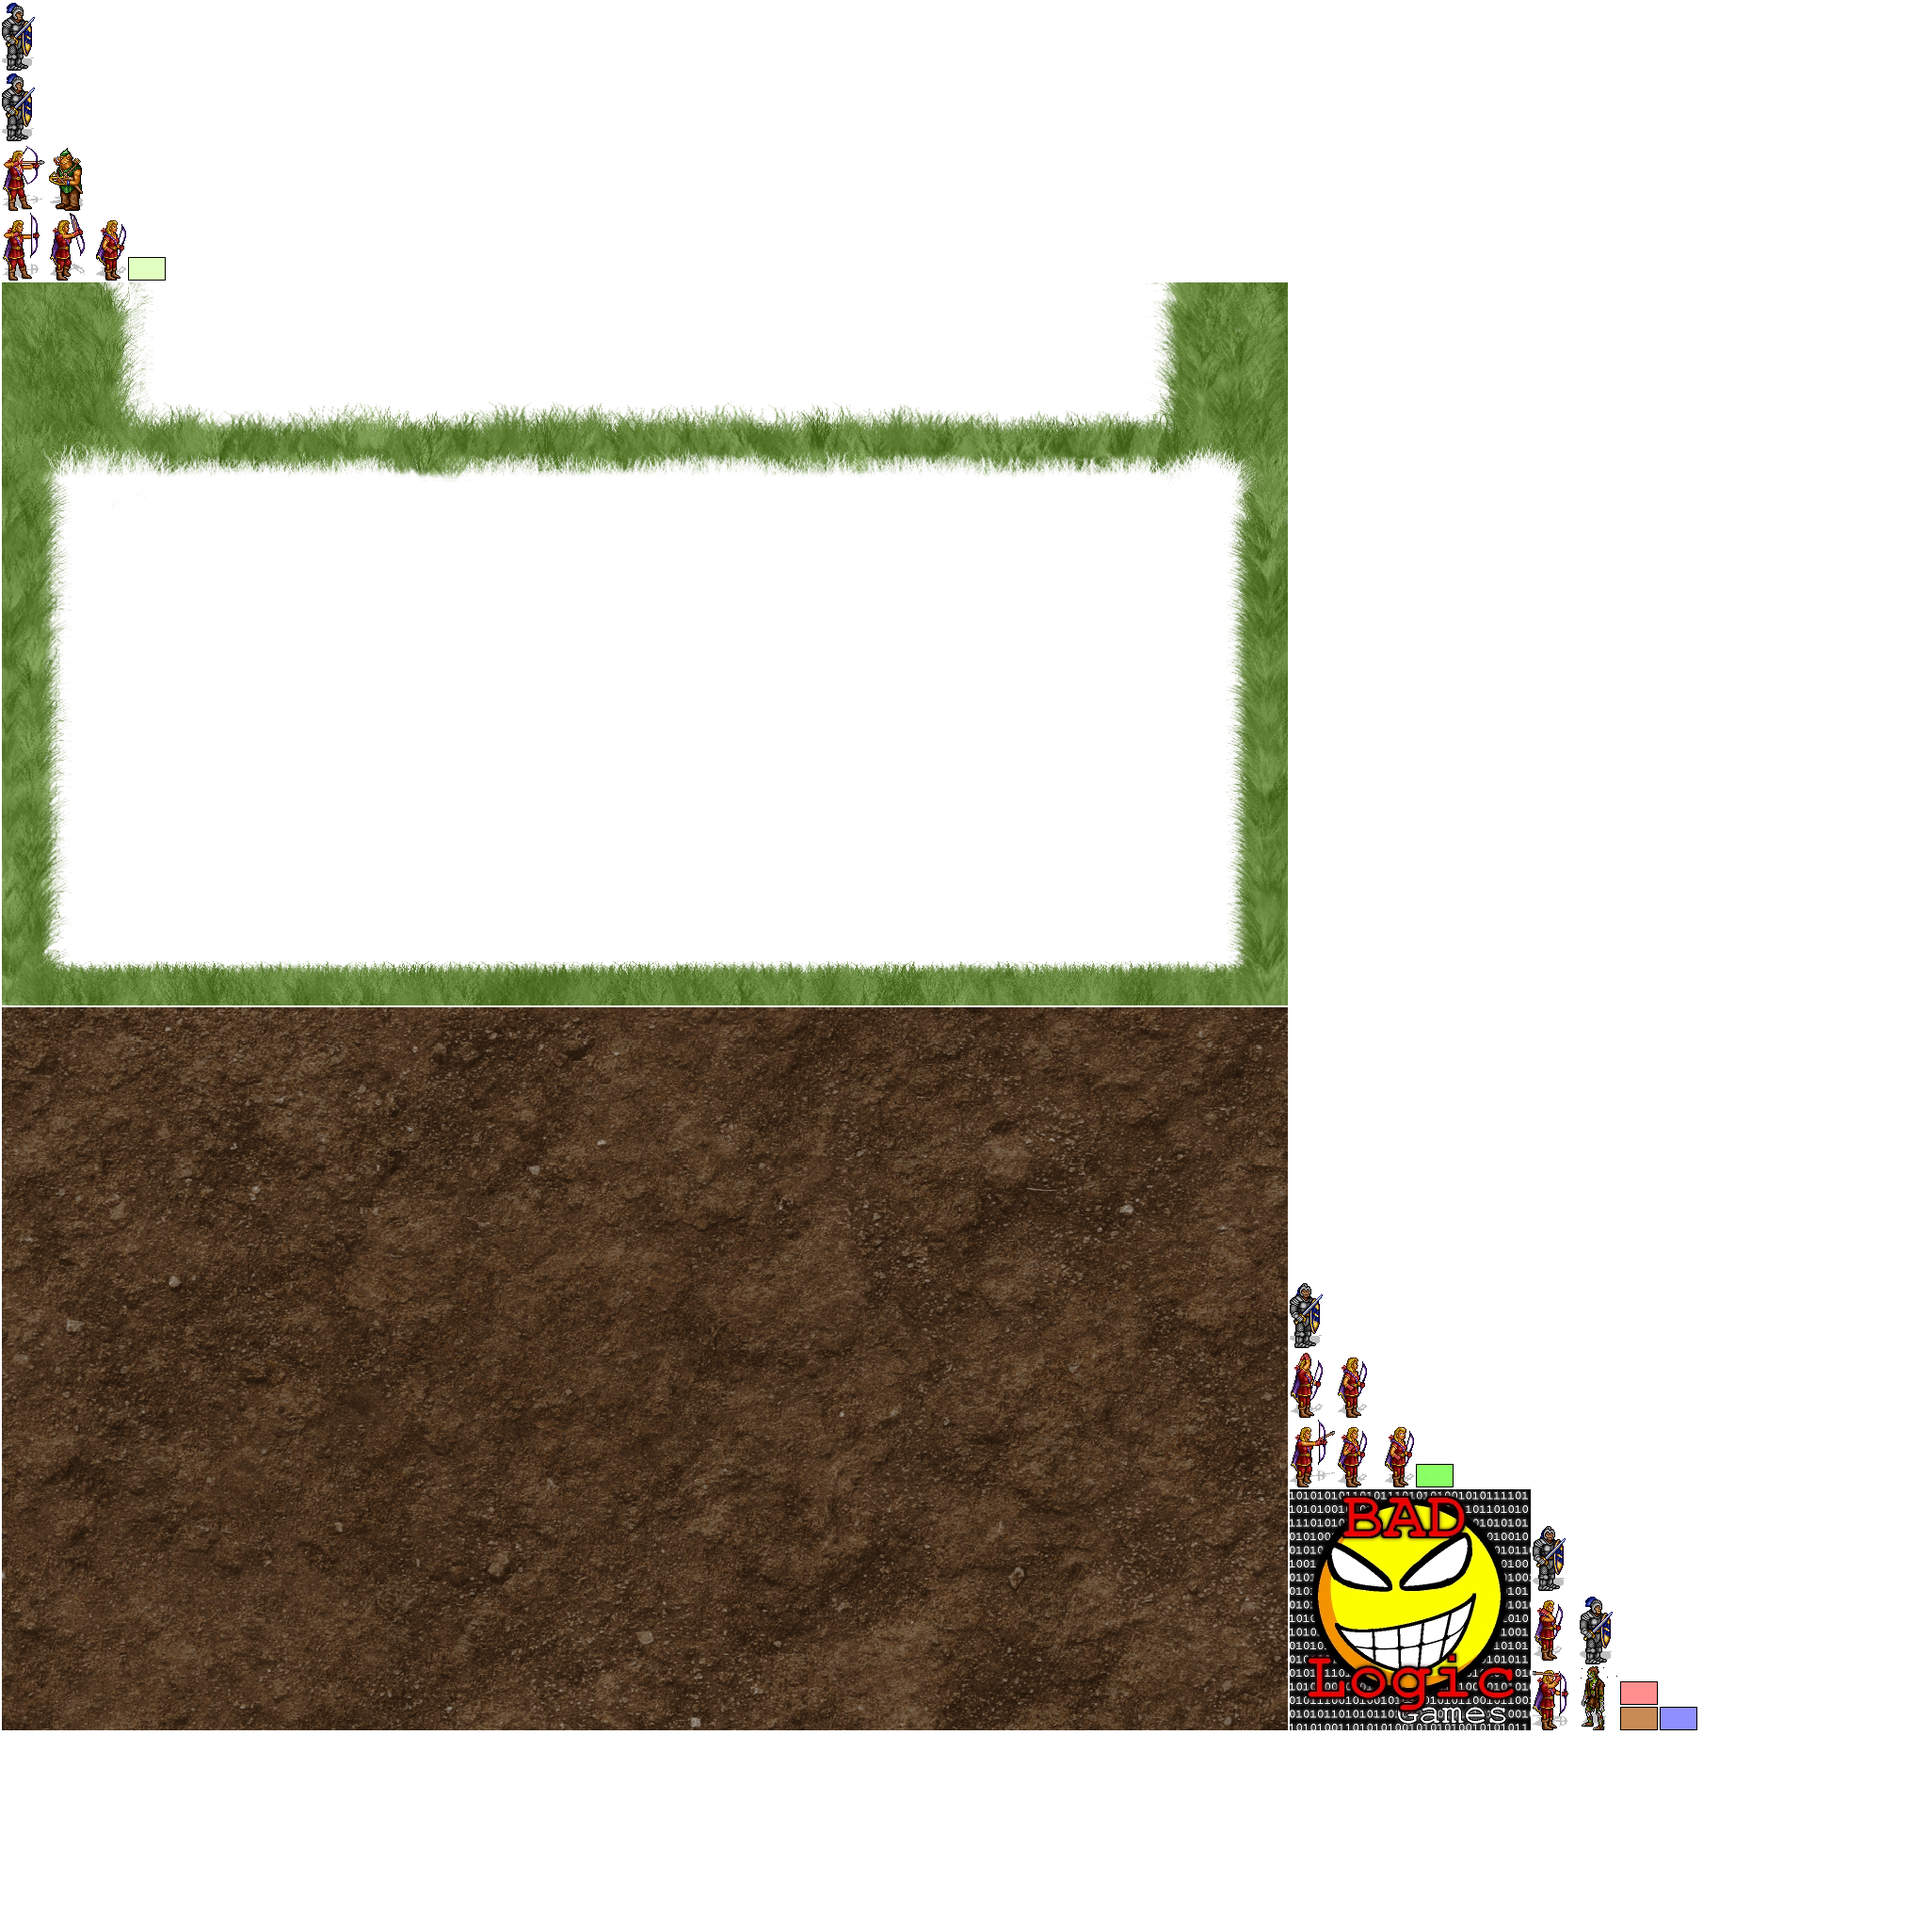
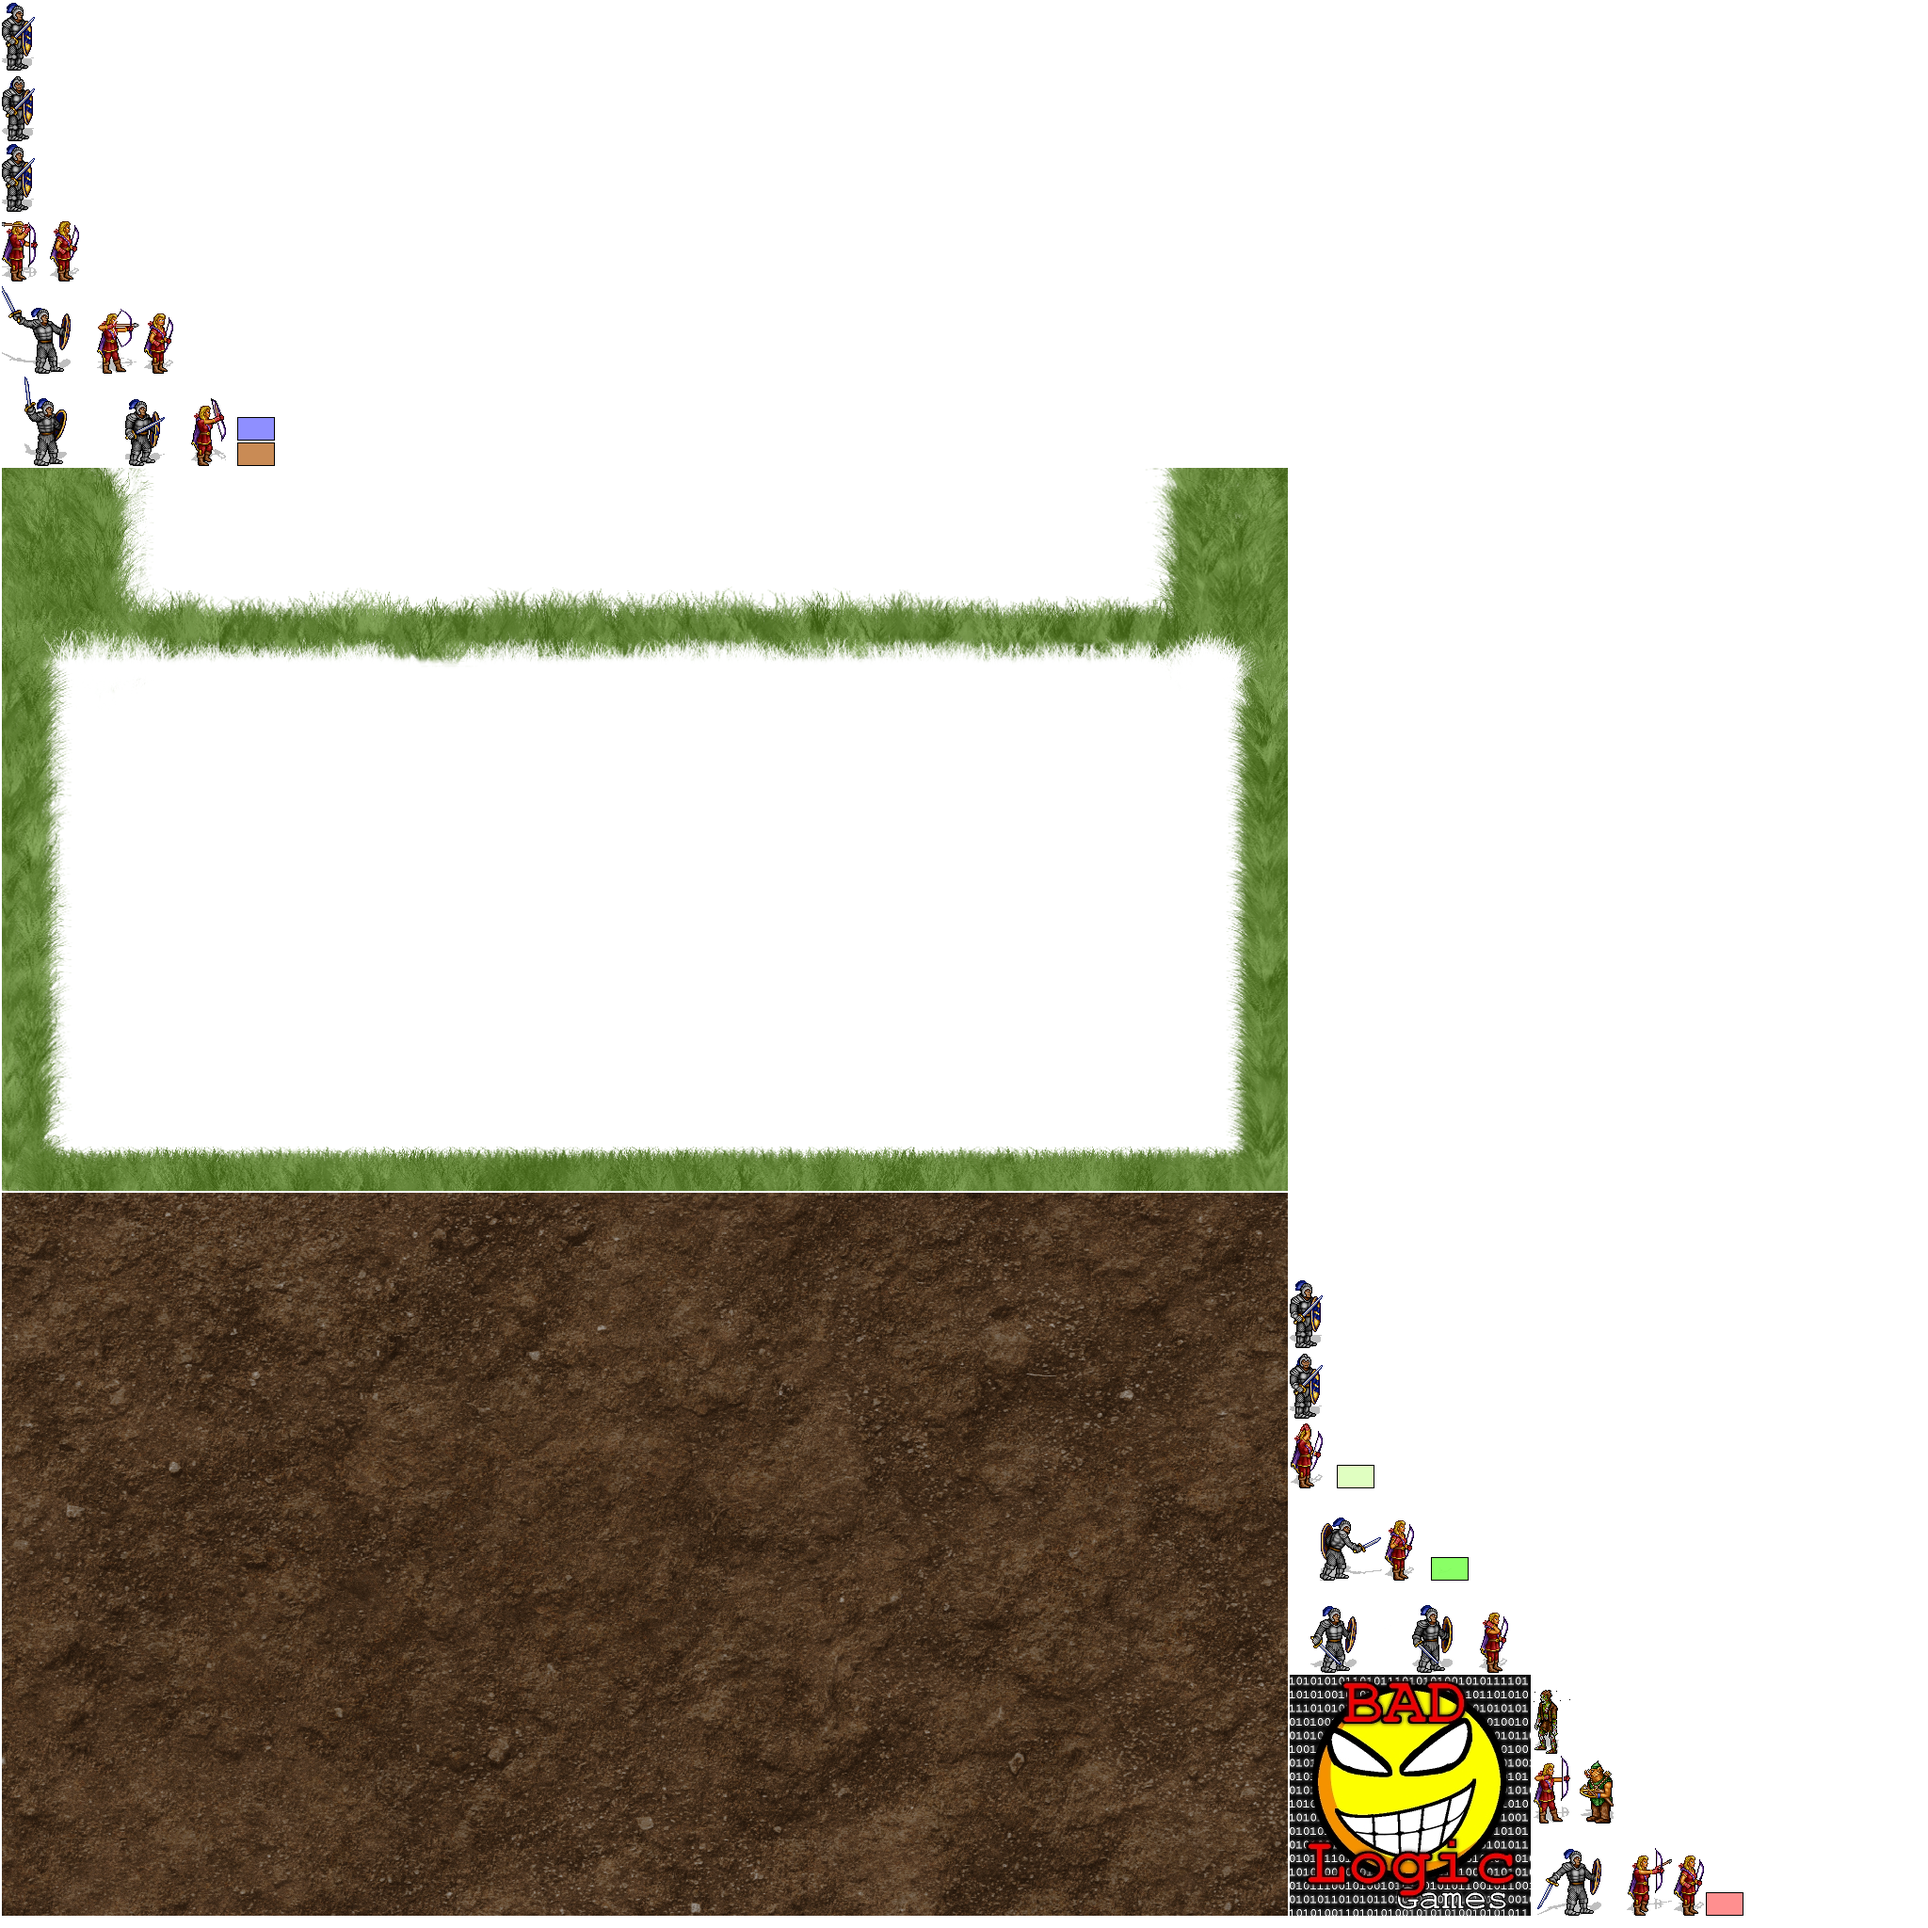
Added to commit animation class (forgot about it); added attack animation to knight; added delay to bot units move

Changed region(s): [[0.0, 0.0312, 0.9062, 1.0]]

diff --git a/core/src/com/d43/tbs/model/unit/Unit.java b/core/src/com/d43/tbs/model/unit/Unit.java
@@ -8,6 +8,7 @@ import com.badlogic.gdx.graphics.g2d.TextureRegion;
 import com.badlogic.gdx.math.Vector2;
 import com.badlogic.gdx.utils.Array;
 import com.d43.tbs.control.MapHandler;
+import com.d43.tbs.control.MapPlaying;
 import com.d43.tbs.control.UnitController;
 import com.d43.tbs.model.GameObject;
 import com.d43.tbs.model.map.Cell;
@@ -23,7 +24,7 @@ public abstract class Unit extends GameObject {
 
 	private int id, hp, rangeAttack, rangeMovement, damage;
 	private UnitController controller;
-	private Cell cell;
+	protected Cell cell;
 	private boolean isReplaceable;
 	private boolean isEnemy;
 	private boolean isAlive;
@@ -38,8 +39,13 @@ public abstract class Unit extends GameObject {
 	private boolean isForChoose;
 
 	private Vector2 location;
-	
+
 	protected Animation current, idle, attack;
+	
+	protected boolean delayed;
+	protected float delay, finalDelay;
+	
+	protected boolean markEndBotMove;
 
 	public Unit(TextureRegion textureRegion, float x, float y, float width, float height) {
 		super(textureRegion, x, y, width, height);
@@ -62,30 +68,54 @@ public abstract class Unit extends GameObject {
 
 		this.textureRegion = textureRegion;
 
-		this.isForChoose = false;		
+		this.isForChoose = false;
+		
+		this.delayed = false;
+		this.delay = 0;
+		
+		this.markEndBotMove = false;
 	}
 	
-	public abstract void initAnimations(TextureAtlas atlas);
+	public void lastEnemy() {
+		this.markEndBotMove = true;
+	}
 	
+	public void setDelay(Float delay) {
+		this.finalDelay = delay;
+		this.delay = 0;
+		this.delayed = true;
+	}
+
+	public abstract void initAnimations(TextureAtlas atlas);
+
 	public Array<Animation> getAnimations() {
 		Array<Animation> animations = new Array<Animation>();
 		animations.add(current);
 		animations.add(idle);
 		animations.add(attack);
-		
+
 		return animations;
 	}
-	
+
 	public void setAttack() {
 		this.current = this.attack;
 	}
-	
+
 	public void attack(Unit unit) {
+		if (this.attack.getDeltaPosition() != null)
+			this.getBounds().setPosition(
+					this.cell.getBounds().getX() + this.attack.getDeltaPosition().x + this.cell.getSize().width / 2
+							- this.getSize().width / 2,
+					this.cell.getBounds().getY() + this.attack.getDeltaPosition().y + this.cell.getSize().height / 2
+							- this.cell.getSize().height / 4);
 		this.current = this.attack;
 		unit.damage(this.damage);
 	}
-	
+
 	public void setIdle() {
+		this.getBounds().setPosition(
+				this.cell.getBounds().getX() + this.cell.getSize().width / 2 - this.getSize().width / 2,
+				this.cell.getBounds().getY() + this.cell.getSize().height / 2 - this.cell.getSize().height / 4);
 		this.idle.refresh();
 		this.current = idle;
 	}
@@ -237,9 +267,23 @@ public abstract class Unit extends GameObject {
 		this.current.update(delta);
 		this.changeTextureRegion(this.current.getFrame());
 		this.getObject().setSize(this.current.getSize().x, this.current.getSize().y);
-		
+
 		super.draw(batch);
 
+		if(this.delayed) {
+			this.delay += delta;
+			if(this.finalDelay <= this.delay) {
+				this.delayed = false;
+				this.delay = 0;
+			}
+			else return;
+		}
+		
+		if(this.markEndBotMove == true) {
+			this.markEndBotMove = false;
+			((MapPlaying)this.controller.getMapHandler()).makeUnitsRaplaceable();
+		}
+		
 		controller.handle();
 //		Gdx.app.log("log",
 //				"(" + Float.toString(this.previousLocation.x) + ", " + Float.toString(this.previousLocation.y) + ") : ("

diff --git a/core/src/com/d43/tbs/model/unit/Knight.java b/core/src/com/d43/tbs/model/unit/Knight.java
@@ -1,31 +1,33 @@
 package com.d43.tbs.model.unit;
 
+import com.badlogic.gdx.Gdx;
 import com.badlogic.gdx.graphics.g2d.SpriteBatch;
 import com.badlogic.gdx.graphics.g2d.TextureAtlas;
 import com.badlogic.gdx.graphics.g2d.TextureRegion;
 import com.badlogic.gdx.utils.Array;
 import com.d43.tbs.utils.Animation;
 
-public class Knight extends MeleeUnit{
+public class Knight extends MeleeUnit {
 
 	public Knight(TextureRegion textureRegion, float x, float y, float width, float height) {
 		super(textureRegion, x, y, width, height);
-		
+
 		this.setRangeMovement(3);
 		this.setRangeAttack(1);
 		this.setHp(72);
 		this.setDamage(19);
 	}
-	
+
 	@Override
 	public void draw(SpriteBatch batch) {
 		super.draw(batch);
 	}
-	
+
 	public Unit clone() {
-		return new Knight(this.getTextureRegion(), this.getBounds().getX(), this.getBounds().getY(), this.getBounds().getBoundingRectangle().width, this.getBounds().getBoundingRectangle().height);
+		return new Knight(this.getTextureRegion(), this.getBounds().getX(), this.getBounds().getY(),
+				this.getBounds().getBoundingRectangle().width, this.getBounds().getBoundingRectangle().height);
 	}
-	
+
 	@Override
 	public void initAnimations(TextureAtlas atlas) {
 		Array<TextureRegion> regions = new Array<TextureRegion>();
@@ -38,11 +40,22 @@ public class Knight extends MeleeUnit{
 		regions.add(atlas.findRegion("knight_idle", 5));
 //		regions.add(atlas.findRegion("knight"));
 //		regions.add(atlas.findRegion("zombie"));
-		
 
 		this.idle = new Animation(regions, this, 1.5f, true);
 		this.idle.setSize(35, 73);
 		this.current = idle;
+
+		Array<TextureRegion> regionsAttack = new Array<TextureRegion>();
+		regionsAttack.add(atlas.findRegion("knight_attack", 1));
+		regionsAttack.add(atlas.findRegion("knight_attack", 2));
+		regionsAttack.add(atlas.findRegion("knight_attack", 3));
+		regionsAttack.add(atlas.findRegion("knight_attack", 4));
+		regionsAttack.add(atlas.findRegion("knight_attack", 5));
+		regionsAttack.add(atlas.findRegion("knight_attack", 6));
+		regionsAttack.add(atlas.findRegion("knight_attack", 7));
+		this.attack = new Animation(regionsAttack, this, 0.5f, false);
+		this.attack.setSize(98, 96);
+		this.attack.setDeltaPosition(-33, 0);
 	}
 
 }

diff --git a/core/src/com/d43/tbs/utils/Animation.java b/core/src/com/d43/tbs/utils/Animation.java
@@ -1,0 +1,69 @@
+package com.d43.tbs.utils;
+
+import com.badlogic.gdx.graphics.g2d.TextureRegion;
+import com.badlogic.gdx.math.Vector2;
+import com.badlogic.gdx.utils.Array;
+import com.d43.tbs.model.unit.Unit;
+
+public class Animation {
+	private Array<TextureRegion> frames;
+	private float maxFrameTime;
+	private float currentFrameTime;
+	private int frameCount;
+	private int frame;
+	
+	private boolean looping;
+	
+	private Unit unit;
+	
+	private Vector2 size;
+	private Vector2 position;
+
+	public Animation(Array<TextureRegion> frames, Unit unit, float cycleTime, boolean looping) {
+		this.frames = frames;
+		this.frameCount = frames.size;
+		maxFrameTime = cycleTime / frameCount;
+		frame = 0;
+		
+		this.looping = looping;
+		
+		this.unit = unit;
+	}
+	
+	public void setDeltaPosition(float x, float y) {
+		this.position = new Vector2(x, y);
+	}
+	
+	public Vector2 getDeltaPosition() {
+		return this.position;
+	}
+	
+	public void setSize(int width, int height) {
+		this.size = new Vector2(width, height);
+	}
+	
+	public Vector2 getSize() {
+		return this.size;
+	}
+
+	public void refresh() {
+		this.currentFrameTime = 0;
+	}
+	
+	public void update(float dt) {
+		currentFrameTime += dt;
+		if (currentFrameTime > maxFrameTime) {
+			frame++;
+			currentFrameTime = 0;
+		}
+		if (frame >= frameCount) {
+			if(!looping)
+				this.unit.setIdle();
+			frame = 0;
+		}
+	}
+
+	public TextureRegion getFrame() {
+		return frames.get(frame);
+	}
+}

diff --git a/core/src/com/d43/tbs/control/MapPlaying.java b/core/src/com/d43/tbs/control/MapPlaying.java
@@ -140,7 +140,7 @@ public class MapPlaying extends MapHandler{
 				
 				if (this.unitsAreDone()) {
 					bot.makeBotsMove();
-					this.makeUnitsRaplaceable();
+//					this.makeUnitsRaplaceable();
 //				Gdx.app.log("tag", "units are replaceable");
 				}
 			}
@@ -183,8 +183,6 @@ public class MapPlaying extends MapHandler{
 //				enemies.removeIndex(i);
 				
 				if(!enemiesHasAlive()) {
-					Gdx.app.log("log", "win");
-//					this.endGame(true);
 					win = true;
 					this.endGame();
 				}
@@ -200,10 +198,8 @@ public class MapPlaying extends MapHandler{
 				this.paintToDefault();
 				
 				if(!alliesHasAlive()) {
-					Gdx.app.log("log", "defeat");
 					win = false;
 					this.endGame();
-//					this.endGame(false);
 				}
 			}
 		}
@@ -280,7 +276,7 @@ public class MapPlaying extends MapHandler{
 		return k == j ? true : false;
 	}
 
-	private void makeUnitsRaplaceable() {
+	public void makeUnitsRaplaceable() {
 		for (int i = 0; i < allies.size; i++)
 		{
 			allies.get(i).getCell().setRegion(this.textureAtlas.findRegion("cell"));

diff --git a/core/src/com/d43/tbs/control/Bot.java b/core/src/com/d43/tbs/control/Bot.java
@@ -27,6 +27,7 @@ public class Bot {
 	public void makeBotsMove() {
 		Array<Cell> moveCells, attackCells;
 		for(int i = 0; i < this.enemies.size; i++) {
+			this.enemies.get(i).setDelay(i*0.5f);
 			if(!enemies.get(i).isAlive())
 				continue;
 			Vector2 coord = map.findCellCoord(this.enemies.get(i).getCell().getBounds());
@@ -51,6 +52,9 @@ public class Bot {
 			else {
 				enemies.get(i).setCell(moveCells.get(Rnd.generate(0, moveCells.size-1)));
 			}
+			
+			if(i == this.enemies.size - 1)
+				this.enemies.get(i).lastEnemy();
 		}
 	}
 	

diff --git a/core/src/com/d43/tbs/model/map/DefeatedZone.java b/core/src/com/d43/tbs/model/map/DefeatedZone.java
@@ -45,6 +45,7 @@ public class DefeatedZone extends GameObject {
 		unit.setAlive(false);
 		for(int i = cells.length-1; i >= 0; i--)
 			if(!cells[i].containsUnit()) {
+				unit.setDelay(1f);
 				unit.setCell(cells[i]);
 				unit.setHp(0);
 //				return;

diff --git a/core/src/com/d43/tbs/control/UnitController.java b/core/src/com/d43/tbs/control/UnitController.java
@@ -20,6 +20,10 @@ public class UnitController {
 		this.id = id;
 		this.bounds = bounds;
 	}
+	
+	public MapHandler getMapHandler() {
+		return this.mapHandler;
+	}
 
 	public void setUnit(Unit unit) {
 		this.unit = unit;
